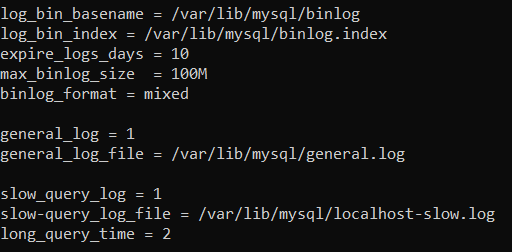
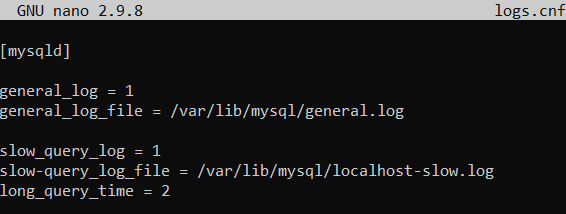
main

Changed region(s): [[0.0, 0.0, 1.0, 0.4766], [0.0, 0.6729, 0.9688, 0.9813], [0.0, 0.4766, 0.8125, 0.6449]]

diff --git a/Ap2/percona-config-logs/README.md b/Ap2/percona-config-logs/README.md
@@ -38,29 +38,9 @@ Crearem el directori `percona-server`, i a continuació crearem el fitxer `logs.
 
 Ara editarem el fitxer `nano logs.cnf` i afegirem el seguent codi
 
-### Pel log de Binary:
+`[mysqld]`
 
-Indicarem la ruta del log
-
-`log_bin_basename = /var/lib/mysql/binlog`
-
-Indicarem la ruta del index
-
-`log_bin_index = /var/lib/mysql/binlog.index`
-
-Posem limit de dies que volem que guardi log
-
-`expire_logs_days = 10`
-
-Posem limit a la mida del fitxer de log
-
-`max_binlog_size  = 100M`
-
-Posem el format en el que volem que guardi el log [statement | row | mixed]
-
-`binlog_format = mixed`
-
-![ScreenShot](imgs/logsBinary.png)
+![ScreenShot](imgs/logsCnf.png)
 
 ### Pel log General
 
